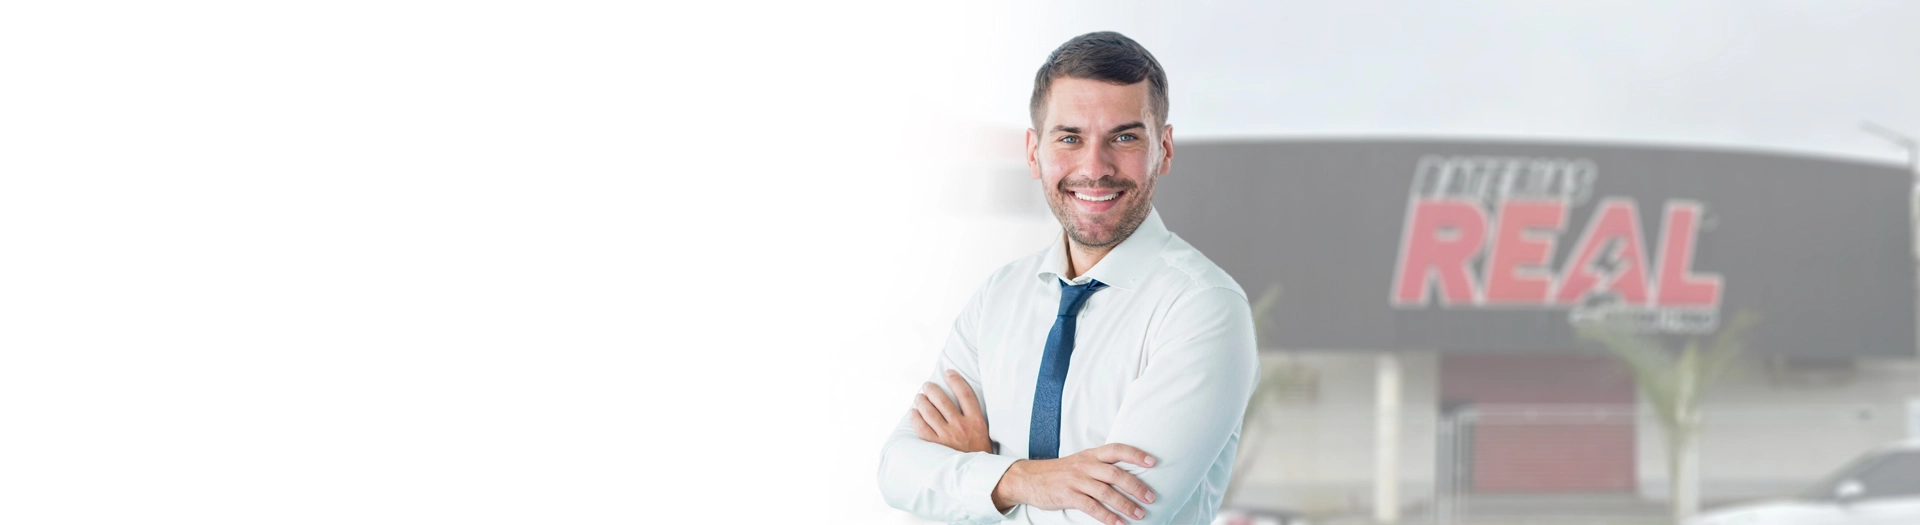
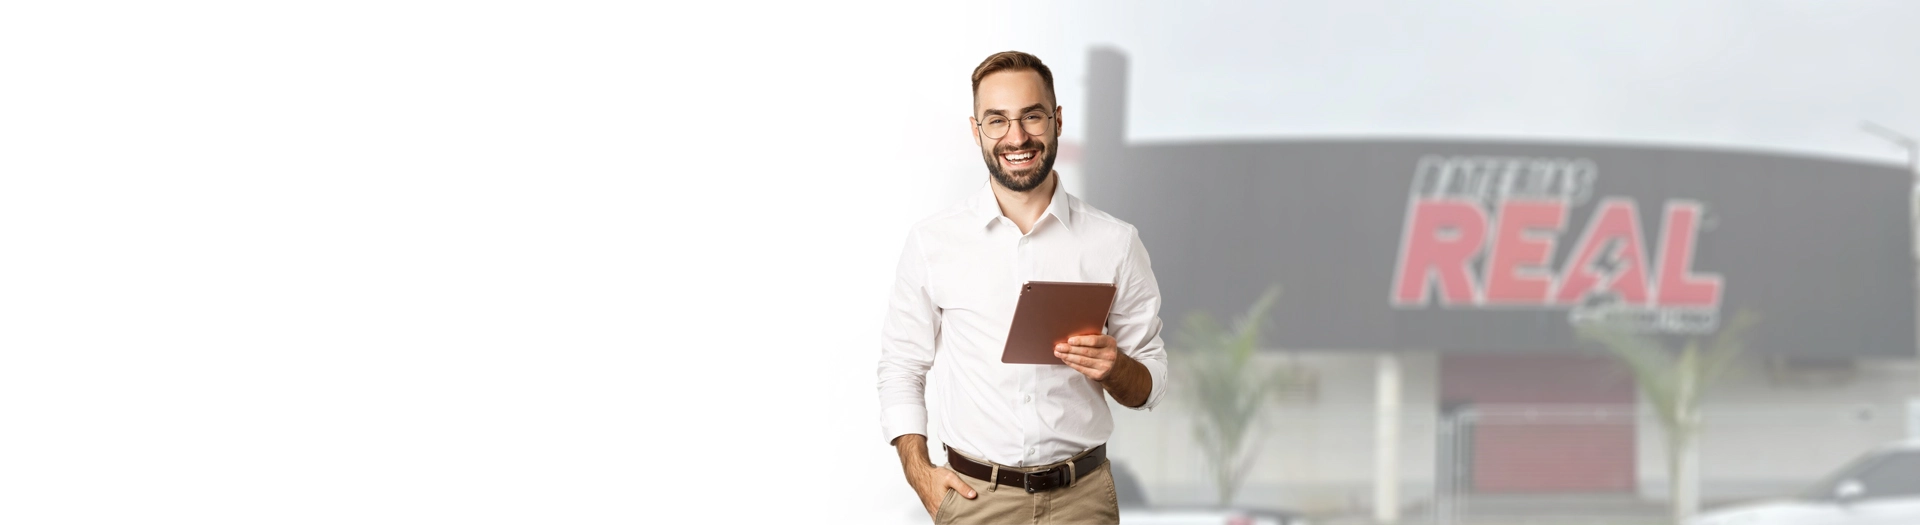
refactor

Changed region(s): [[0.4688, 0.061, 0.6562, 1.0]]

diff --git a/src/app/representantes/Banner/index.tsx b/src/app/representantes/Banner/index.tsx
@@ -3,11 +3,11 @@ import Image from "next/image";
 
 export function Banner() {
 	return (
-		<div className="relative w-full min-h-[525px] mb-10 flex items-center">
+		<div className="relative w-full min-h-[380px] lg:min-h-[525px] mb-10 flex items-center">
 			<div className="container relative z-20">
-				<div className="w-full md:w-1/3 flex flex-col gap-4">
-					<h1 className="font-bold text-4xl md:text-6xl">Representantes</h1>
-					<p className="text-xl">
+				<div className="w-full lg:w-1/3 flex flex-col gap-4 text-center lg:text-start">
+					<h1 className="font-bold text-4xl lg:text-6xl">Representantes</h1>
+					<p className="text-base lg:text-xl">
 						Confira nosso <span className="font-bold text-[#DF0209]">mapa de atuação</span>, encontre o representante mais próximo de você e tenha nossos produtos em <span className="font-bold text-[#DF0209]">sua loja</span>.
 					</p>
 				</div>
@@ -16,8 +16,9 @@ export function Banner() {
 				src={'/assets/images/representantes.webp'}
 				fill
 				objectFit="cover"
-				alt="banner contato"
+				alt="banner representantes"
 				priority
+				className="opacity-30 lg:opacity-100"
 			/>
 		</div>
 	);

diff --git a/src/app/canal-de-denuncias/Form/index.tsx b/src/app/canal-de-denuncias/Form/index.tsx
@@ -49,7 +49,7 @@ export function Form() {
 								</CardDescription>
 							</CardHeader>
 							<CardContent className="space-y-2">
-								<div className="grid grid-cols-2 gap-6">
+								<div className="grid grid-cols-1 md:grid-cols-2 gap-2 md:gap-6">
 									<Input className="h-12 text-base" placeholder="Nome" />
 									<Input className="h-12 text-base" placeholder="Sobrenome" />
 								</div>
